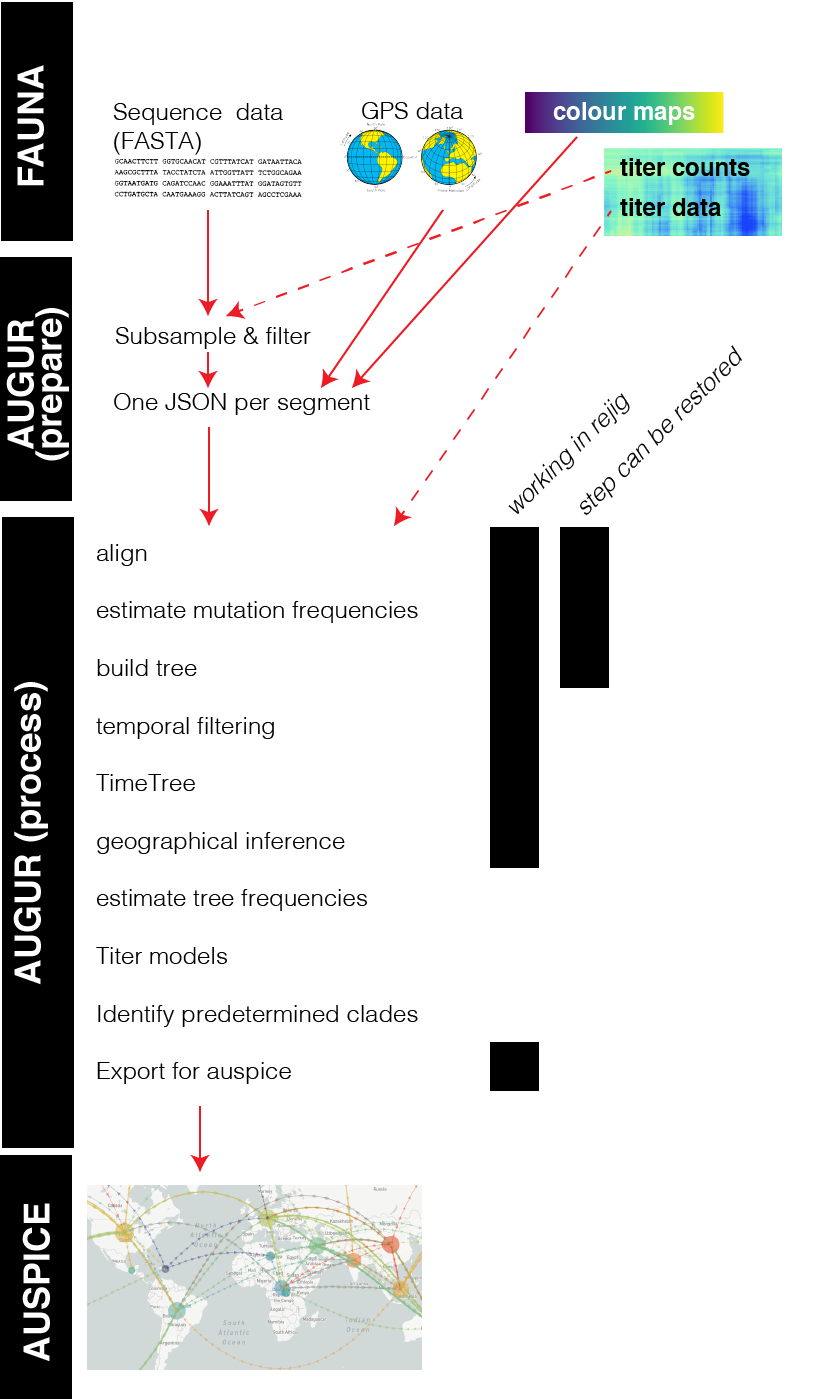
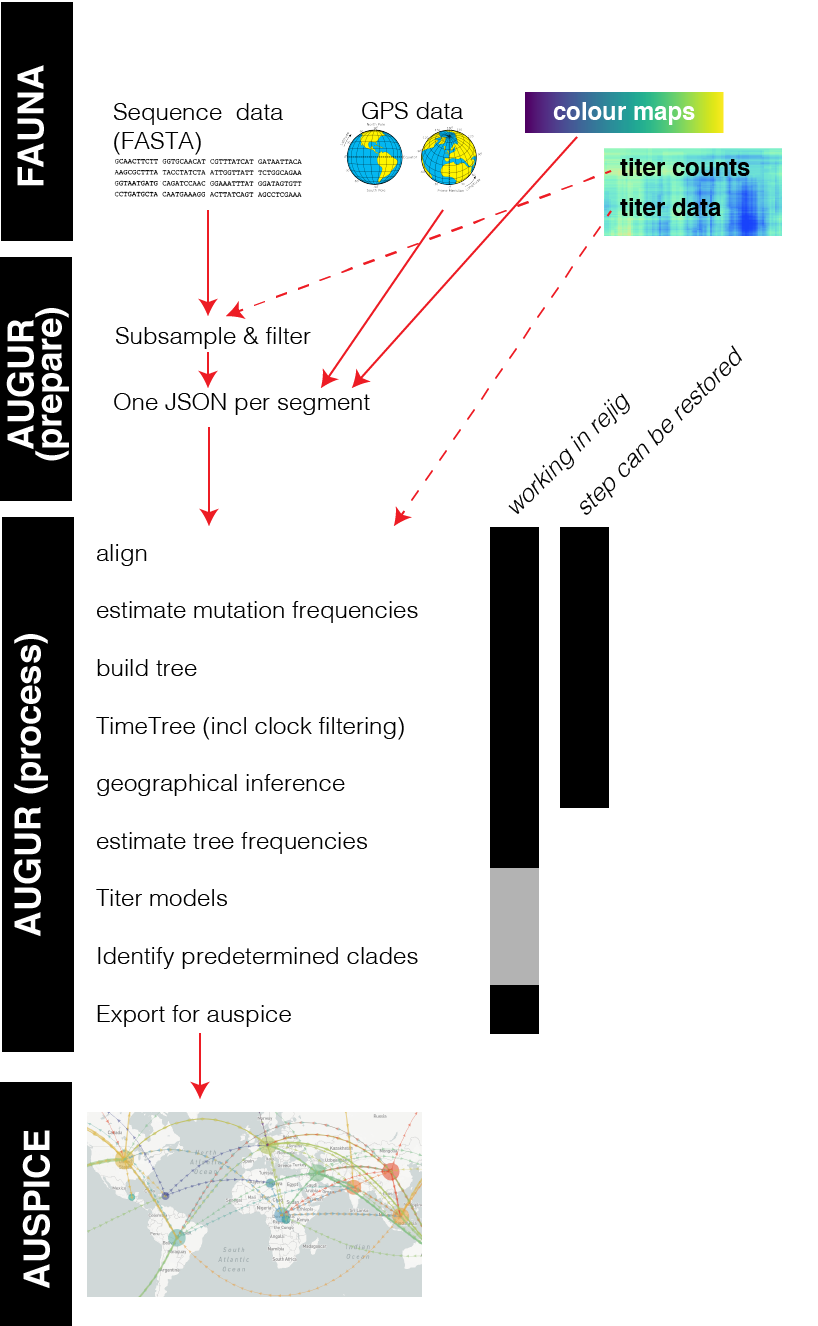
docs

diff --git a/docs/process.md b/docs/process.md
@@ -5,18 +5,18 @@
 The process scripts (and the Process class) is designed to analyse one single dataset (i.e. not multiple segments), coming from one single JSON.
 Similar to _Prepare_, it is designed off a `config` dict that should be all that is needed to run the analysis.
 For bespoke analysis, a new class may be created which inherits from `Process`.
-Since the config files across segments may be identical but for the filenames, these can be added as command line arguments (TO DO).
-The analysis is designed to be restarted at various checkpoints (TO DO)
+Since the config files across segments may be identical but for the filenames, these can be added as command line arguments on a dataset-by-dataset basis (e.g. see flu).
+Most stages will save their output which will be restored (if valid) for subsequent analysis.
 
 ### input
-Normally, everything is done off a JSON via [prepare](./prepare.md)
+Normally, everything is done off a JSON via [prepare](./prepare.md).
+Titer information is loaded here, although this is a work in progress.
 
 ### analysis components
 * align
 * [estimate mutation frequencies](./frequencies.md)
-* build tree (RAxML)
-* temporal filtering
-* TimeTree
+* [build tree (RAxML)](./phylogenies.md)
+* [TimeTree](./phylogenies.md) - temporal filtering, ancestral reconstruction + node dating.
 * geographical inference
 * [estimate tree frequencies](./frequencies.md)
 * Titer models
@@ -40,7 +40,7 @@ Normally, everything is done off a JSON via [prepare](./prepare.md)
 * `estimate_mutation_frequencies` {bool} (default: `False`)
 * `pivot_spacing` {float} (default: not present) necessary if you want to calculate pivots through `get_pivots_via_spacing`. See [Frequencies](./frequencies.md)
 * `newick_tree_options` {dict} (default: `{}`) See [Phylogenies](./phylogenies.md)
-* `clock_filter` {`False` | dict} See [clock filter](./clock_filter.md)
+* `clock_filter` {`False` | dict} See [Phylogenies](./phylogenies.md)
 * `timetree_options` {dict} See [Phylogenies](./phylogenies.md)
 
 ##### Auspice output settings

diff --git a/docs/phylogenies.md b/docs/phylogenies.md
@@ -11,8 +11,21 @@ By default **RAxML** is run using the GTRCAT model with a single starting tree.
 The newick file is saved to `processed/<prefix>.newick`. If this file exists, and the taxa match, then this step is skipped to save time.
 
 ### step 2: TimeTree
-Options here are configurable via the `timetree_options` dictionary in config.
+TimeTree involves three steps:
+* set up
+* clock filtering (configurable via `config -> clock_filter`)
+* reconstruct ancestral sequences, date nodes & optimise branch lengths (configurable via `config -> timetree_options`)
 
+**clock_filter:**
+
+`clock_filter` is a {dict} with keys:
+* `n_iqd` {int} (default `3`)
+* `plot` {bool} (default `True`)
+* `remove_deep_splits` {bool} (default `False`)
+
+Note that setting `clock_filter` to `False` skips this step.
+
+**timetree_options:**
 Available parameters:
 * `Tc` (default `0.02`)
 * `confidence` (see below)
